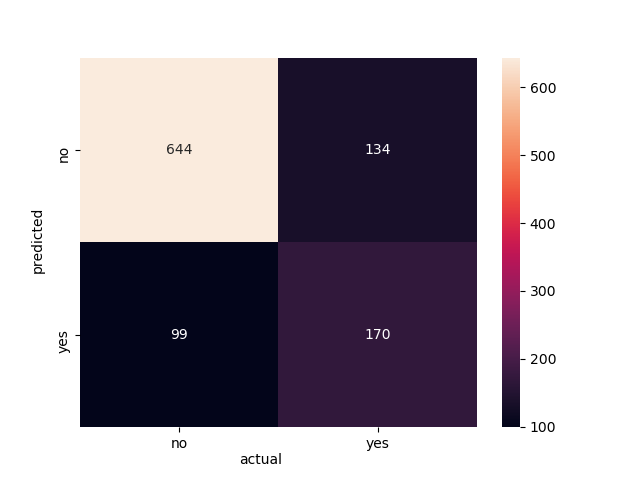
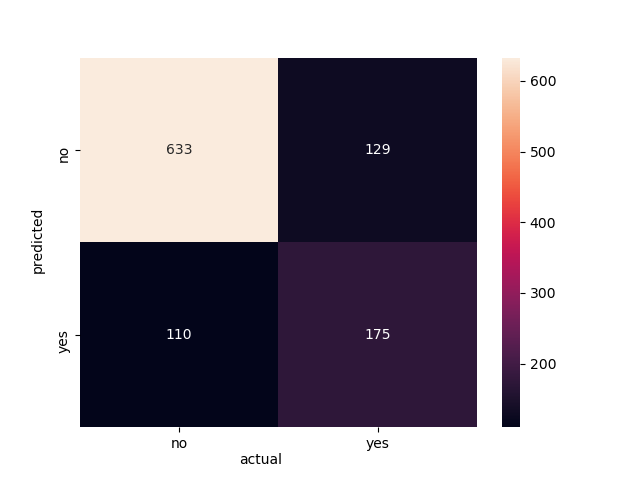
camel case split on tokenizer for better classifying

diff --git a/src/classifier.py b/src/classifier.py
@@ -1,5 +1,4 @@
 from sklearn.feature_extraction.text import TfidfVectorizer
-from sklearn.feature_selection import SelectKBest, chi2
 from sklearn.metrics import confusion_matrix, classification_report
 from sklearn.pipeline import Pipeline
 from sklearn.naive_bayes import MultinomialNB, ComplementNB, BernoulliNB
@@ -8,9 +7,7 @@ from sklearn.neural_network import MLPClassifier
 from sklearn.ensemble import RandomForestClassifier, AdaBoostClassifier, BaggingClassifier, ExtraTreesClassifier, \
     GradientBoostingClassifier
 from sklearn.model_selection import cross_val_predict, KFold
-
-from src.code_parser import code_split
-from src.tokenizer import spacy_tokenizer
+from src.code_parser import code_split, tokenizer
 from src.csv_utils import comment_parser, label_parser, write_stats
 from src.keys import non_information, information
 from src.plot_utils import saveHeatmap
@@ -22,10 +19,11 @@ def classify(classifiers=None):
     if classifiers is None:
         classifiers = [BernoulliNB, ComplementNB, MultinomialNB, LinearSVC, SVC, MLPClassifier, RandomForestClassifier,
                        AdaBoostClassifier, BaggingClassifier, ExtraTreesClassifier, GradientBoostingClassifier]
+    voting = [RandomForestClassifier, BernoulliNB, MLPClassifier, ExtraTreesClassifier, LinearSVC]
     comments = comment_parser()  # the features we want to analyze
     labels = label_parser()  # the labels, or answers, we want to testers against
 
-    tfidf_vector = TfidfVectorizer(tokenizer=code_split)
+    tfidf_vector = TfidfVectorizer(tokenizer=tokenizer)
     stats = {}
     list_results = []
     for i in classifiers:
@@ -33,7 +31,8 @@ def classify(classifiers=None):
         pipe = Pipeline([('vectorizer', tfidf_vector), ('classifier', classifier)])
 
         result = cross_val_predict(pipe, comments, labels, cv=KFold(n_splits=10, shuffle=True))
-        list_results.append(result)
+        if i in voting:
+            list_results.append(result)
         cm = confusion_matrix(result, labels, [information, non_information])
         saveHeatmap(cm, i.__name__)
 
@@ -45,9 +44,9 @@ def classify(classifiers=None):
     voting_results = []
     for i in range(len(comments)):
         vote = 0
-        for j in range(len(classifiers)):
+        for j in range(len(voting)):
             vote += list_results[j][i]
-        if vote > (len(classifiers) / 2):
+        if vote > (len(voting) / 2):
             voting_results.append(non_information)
         else:
             voting_results.append(information)
@@ -59,6 +58,11 @@ def classify(classifiers=None):
     stats["Voting"] = voting_report
     return stats
 
+
+def alalal():
+    mamt = TfidfVectorizer(tokenizer=tokenizer)
+    mamt.fit_transform(comment_parser())
+    print(mamt.vocabulary_)
 
 if __name__ == "__main__":
     start_time = time.time()

diff --git a/src/code_parser.py b/src/code_parser.py
@@ -199,6 +199,8 @@ def stem(words):
 
 
 def camel_case_split(string):
+    if not string:
+        return string
     words = [[string[0]]]
 
     for c in string[1:]:
@@ -292,10 +294,21 @@ def code_split(string):
     return words
 
 
+def tokenizer(string):
+    tokens = code_split(string)
+    new_tokens = []
+    for token in tokens:
+        for t in camel_case_split(token):
+            new_tokens.append(t)
+    return new_tokens
+
+
 if __name__ == '__main__':
     # code = open('../testers/test.txt', 'r').read()
     # code_parser(code, 151, javadoc)
-    get_positions()
+    # get_positions()
     # line_type_identifier("ciao")
     # code_parser3()
     # print(word_extractor("ciao mamma /*css rff*/"))
+    print(tokenizer("tuaMadreQuellaTroia"))
+    print(camel_case_split("tuaMadreQuellaTroia"))
